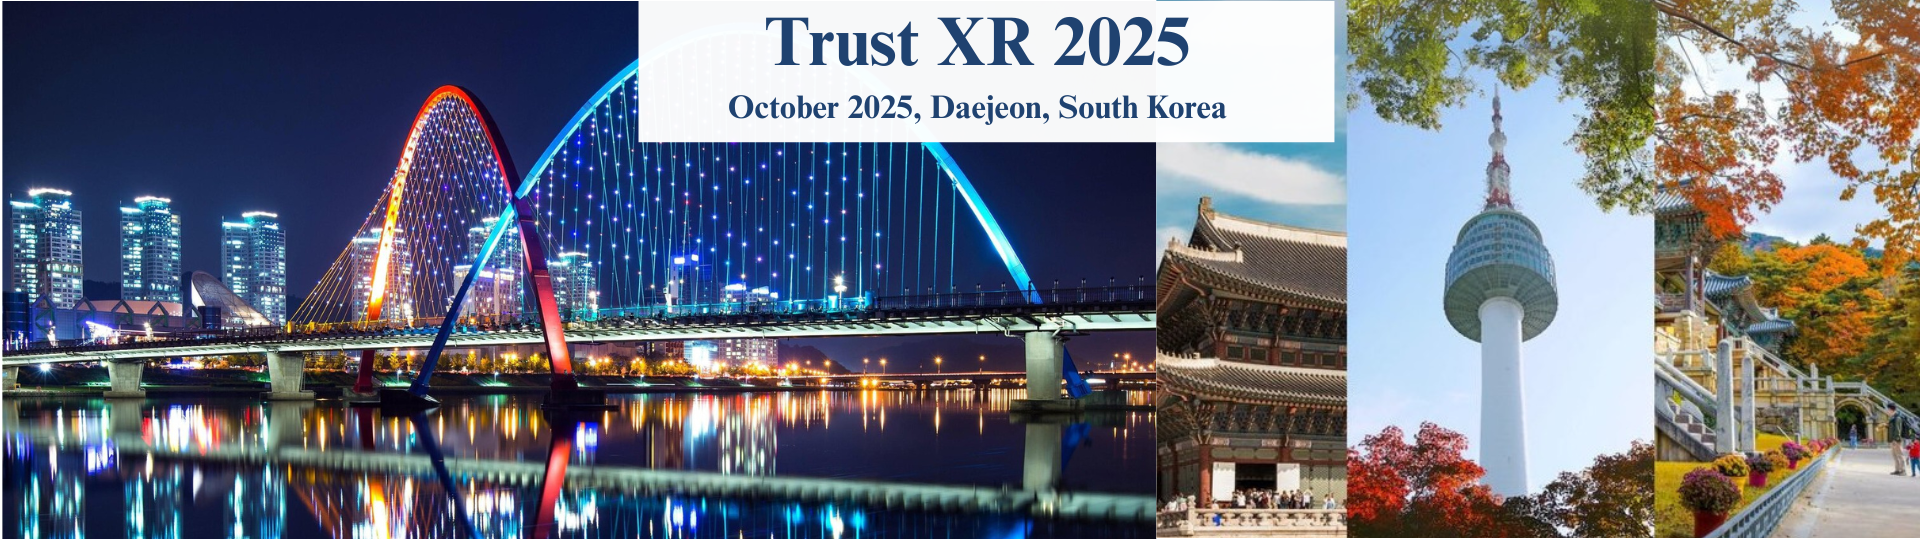
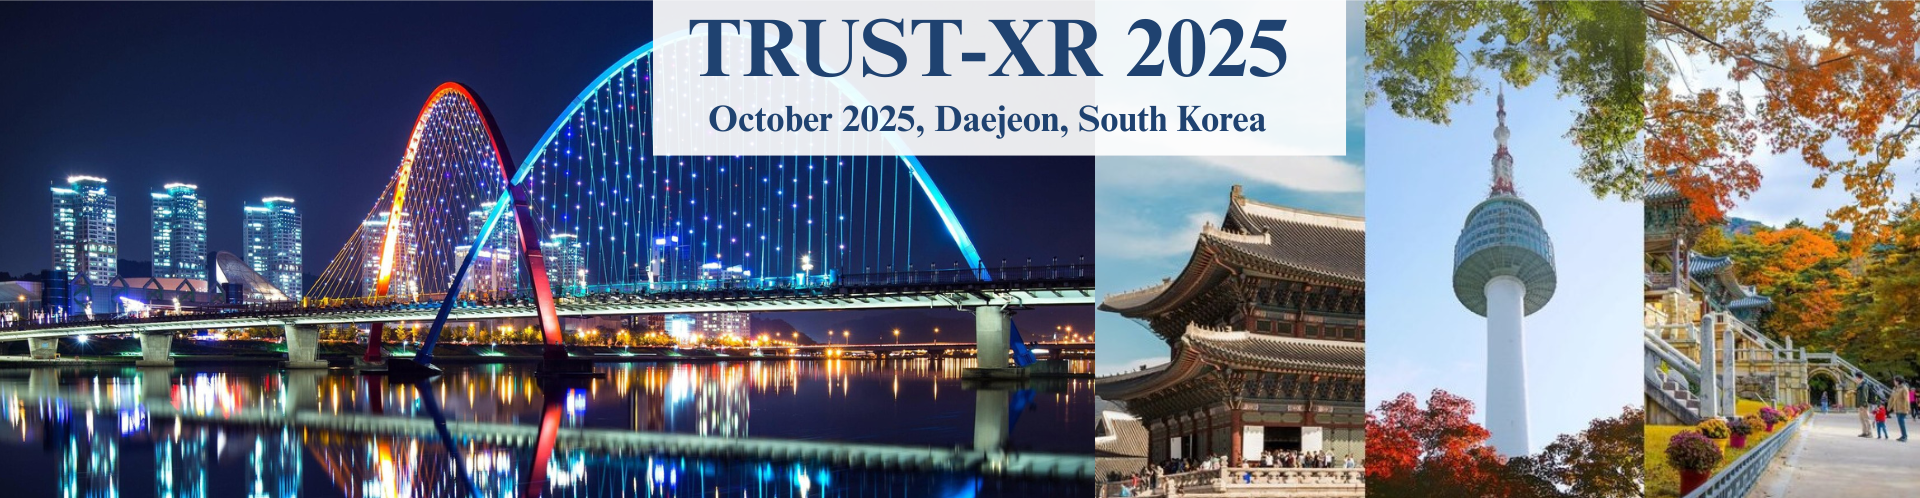
typo

diff --git a/index.html b/index.html
@@ -42,7 +42,7 @@
                 <a class="navbar-brand" href="#">
                     <img src="images/trustxr-logo.png" alt="TRUST-XR Logo"
                         style="height: 40px; margin-right: 10px; display: inline-block; vertical-align: middle;">
-                    <span style="color: #222; font-size: 35px; vertical-align: middle;">Trust XR 2025</span>
+                    <span style="color: #222; font-size: 35px; vertical-align: middle;">TRUST-XR 2025</span>
                 </a>
 
 
